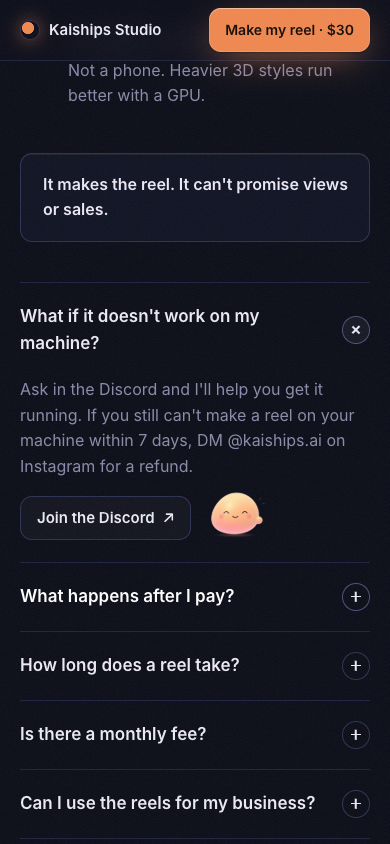
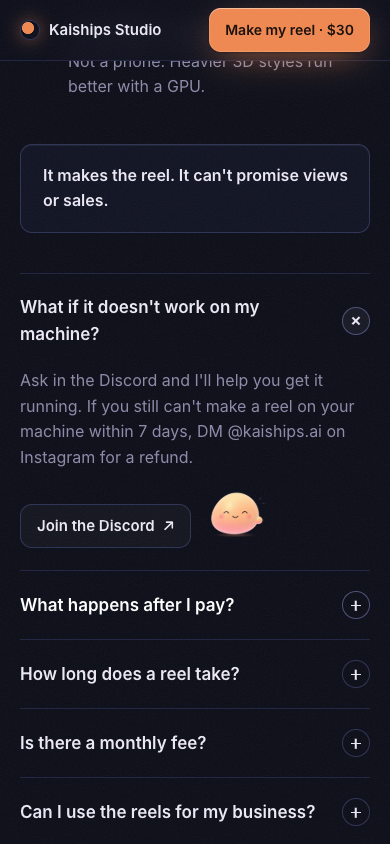
fix(home): Bean review fixes and first-paint cost
- Reduced motion: the hero read/unread crossfade no longer runs.
- The hero reading plays once; it no longer replays after a speech ends.
- The read pose loads eagerly with idle, so Bean never blanks mid-typing.
- A repeat click is announced again to screen readers.
- The hi pose loads after the page is idle, and the How it works poses
  load only when the story is near. Lighthouse mobile is back to the
  main baseline (91/91/91 vs 92/91/91, LCP 3.4-3.5 s).
- Phone FAQ words are 14 px.
- Proof screenshots re-shot from this build with scripts/proof-bean.sh.

diff --git a/src/components/night/bean.tsx b/src/components/night/bean.tsx
@@ -15,6 +15,28 @@ export const BEAN = Object.fromEntries(
 
 const reducedMotion = () => window.matchMedia("(prefers-reduced-motion: reduce)").matches;
 
+/** True once the page has loaded and gone idle, so extra poses never compete with the first paint. */
+function useAfterLoad() {
+  const [ready, setReady] = useState(false);
+  useEffect(() => {
+    let idle = 0;
+    const go = () => {
+      idle =
+        typeof window.requestIdleCallback === "function"
+          ? window.requestIdleCallback(() => setReady(true), { timeout: 2500 })
+          : (globalThis.setTimeout(() => setReady(true), 300) as unknown as number);
+    };
+    if (document.readyState === "complete") go();
+    else window.addEventListener("load", go, { once: true });
+    return () => {
+      window.removeEventListener("load", go);
+      if (typeof window.cancelIdleCallback === "function") window.cancelIdleCallback(idle);
+      else globalThis.clearTimeout(idle);
+    };
+  }, []);
+  return ready;
+}
+
 /** Calls `onEnter` once, the first time `ref` scrolls into view. */
 function useFirstView(ref: React.RefObject<HTMLElement | null>, onEnter: () => void, threshold = 0.6) {
   const cb = useRef(onEnter);
@@ -41,7 +63,7 @@ function useFirstView(ref: React.RefObject<HTMLElement | null>, onEnter: () => v
  * Every pose this spot can show, stacked; the current one is opaque. Changing
  * pose is an opacity crossfade, so a fast scroll just retargets it.
  */
-export function BeanStack({ poses, pose, eager }: { poses: readonly BeanPose[]; pose: BeanPose; eager?: BeanPose }) {
+export function BeanStack({ poses, pose, eager = [] }: { poses: readonly BeanPose[]; pose: BeanPose; eager?: readonly BeanPose[] }) {
   return (
     <span className={s.beanStack} style={{ aspectRatio: `${registry.size.w} / ${registry.size.h}` }}>
       {[...new Set(poses)].map((p) => (
@@ -52,8 +74,8 @@ export function BeanStack({ poses, pose, eager }: { poses: readonly BeanPose[]; 
           unoptimized
           data-pose={p}
           data-on={p === pose || undefined}
-          loading={p === eager ? "eager" : "lazy"}
-          fetchPriority={p === eager ? "low" : undefined}
+          loading={eager.includes(p) ? "eager" : "lazy"}
+          fetchPriority={eager.includes(p) ? "low" : undefined}
         />
       ))}
     </span>
@@ -78,10 +100,13 @@ function TalkingBean({
   label: string;
   pose: BeanPose;
   poses: readonly BeanPose[];
-  eager?: BeanPose;
+  eager?: readonly BeanPose[];
 }) {
   const [st, send] = useReducer(speech, { phase: "idle", n: 0 });
   const speaking = st.phase === "speaking";
+  // "hi" is only needed after a click: fetch it once the page is idle.
+  const loaded = useAfterLoad();
+  const withHi = loaded || st.n > 0;
   useEffect(() => {
     if (st.phase !== "speaking") return;
     const t = window.setTimeout(() => send("done"), SPEAK_MS);
@@ -93,7 +118,7 @@ function TalkingBean({
       <button type="button" className={s.beanBtn} aria-label={label} onClick={() => send("click")}>
         <span className={s.beanBounce} data-b={st.n === 0 ? undefined : st.n % 2}>
           <span className={s.beanClip}>
-            <BeanStack poses={[...poses, "hi"]} pose={speaking ? "hi" : pose} eager={eager} />
+            <BeanStack poses={withHi ? [...poses, "hi"] : poses} pose={speaking ? "hi" : pose} eager={eager} />
           </span>
         </span>
       </button>
@@ -102,18 +127,19 @@ function TalkingBean({
           <span key={l}>{l}</span>
         ))}
       </span>
+      {/* The trailing space flips per click, so a repeat click is announced again. */}
       <span className={s.srOnly} aria-live="polite">
-        {speaking ? say.join(" ") : ""}
+        {speaking ? say.join(" ") + (st.n % 2 ? "\u00a0" : "") : ""}
       </span>
     </>
   );
 }
 
-/** A · Hero: reads the prompt while it types (CSS), says hi when clicked. */
+/** A · Hero: reads the prompt while it types (CSS, once), says hi when clicked. */
 export function HeroBean({ say }: { say: readonly string[] }) {
   return (
     <span className={`${s.bean} ${s.heroBean}`}>
-      <TalkingBean say={say} label="Say hi to Bean" pose="idle" poses={["idle", "read"]} eager="idle" />
+      <TalkingBean say={say} label="Say hi to Bean" pose="idle" poses={["idle", "read"]} eager={["idle", "read"]} />
     </span>
   );
 }
@@ -131,7 +157,7 @@ export function FaqBean({ say }: { say: readonly string[] }) {
 
   return (
     <span ref={ref} className={`${s.bean} ${s.faqBean}`} data-phase={phase}>
-      <TalkingBean say={say} label="Ask Bean for help" pose={phase === "hi" ? "hi" : "curious"} poses={["curious"]} />
+      <TalkingBean say={say} label="Ask Bean for help" pose={phase === "hi" ? "hi" : "curious"} poses={["curious", "hi"]} />
     </span>
   );
 }

diff --git a/src/components/night/night.module.css b/src/components/night/night.module.css
@@ -2013,7 +2013,8 @@
 .heroBean img[data-pose="idle"] {
   animation: beanUnread 2.2s;
 }
-.heroBean:has(.beanSay[data-on]) img {
+/* After the first click the reading is over for good (data-b stays set). */
+.heroBean .beanBounce[data-b] img {
   animation: none;
 }
 @keyframes beanRead {
@@ -2190,12 +2191,13 @@
     min-width: 0;
     margin: 0;
     white-space: normal;
-    font-size: 13px;
+    font-size: 14px;
     line-height: 1.3;
   }
 }
 @media (prefers-reduced-motion: reduce) {
   .heroBean .beanStack,
+  .heroBean img[data-pose],
   .beanBounce[data-b],
   .finalBean[data-phase] .beanStack {
     animation: none;

diff --git a/src/components/night/how-it-works.tsx b/src/components/night/how-it-works.tsx
@@ -141,7 +141,7 @@ export function HowItWorks({ how, bean, prompt, reel }: Props) {
                     ))}
                   </ul>
                   <span className={`${s.bean} ${s.monBean}`}>
-                    <BeanStack poses={bean} pose={bean[active]} />
+                    <BeanStack poses={near ? bean : []} pose={bean[active]} />
                   </span>
                 </div>
                 <div className={`${s.out} ${active === 5 ? s.outOn : ""}`}>
